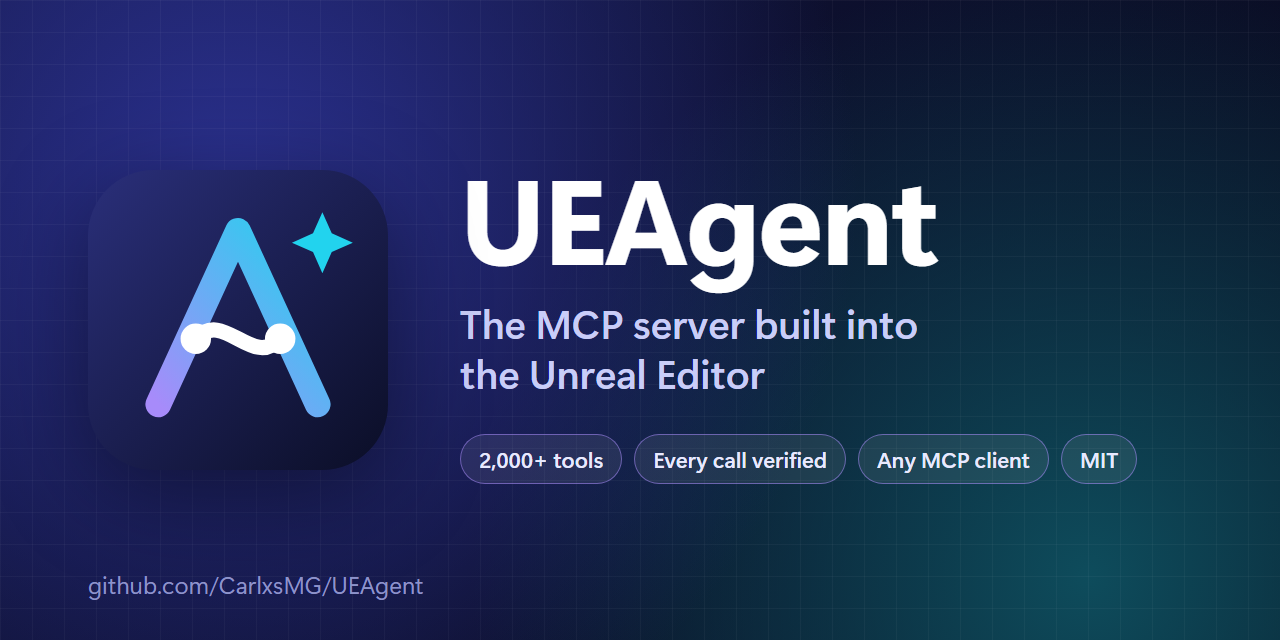
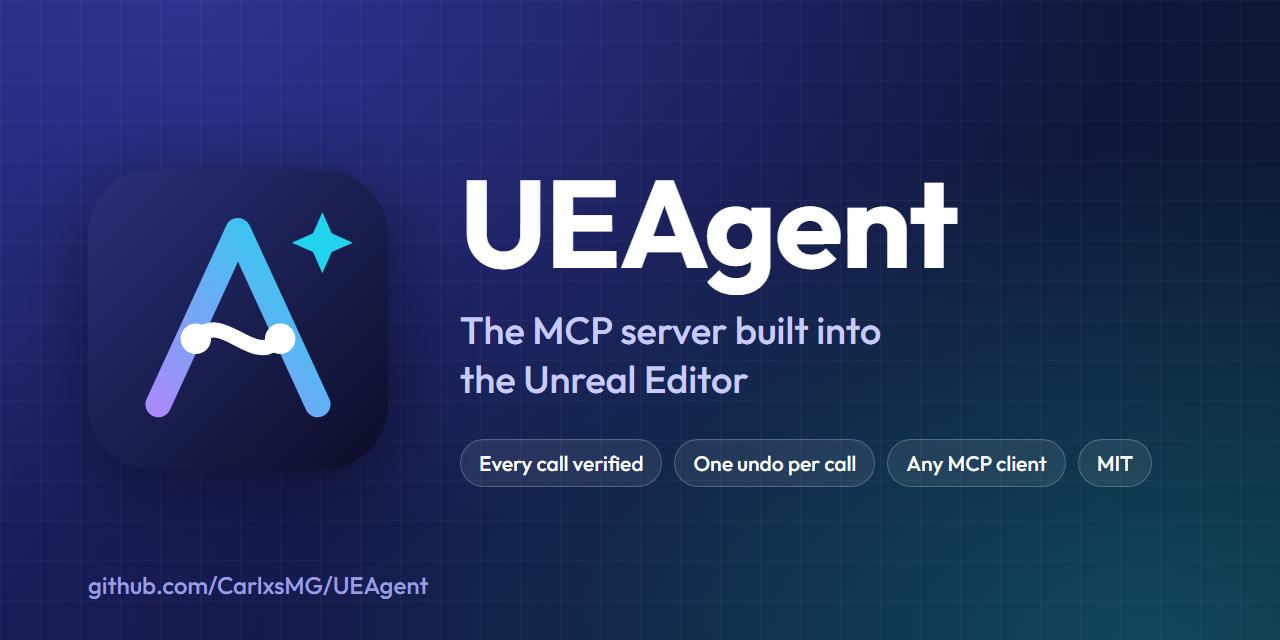
The social preview image gives no tool count, and its source is in the repository
It said 2,000+ tools, a count from before 2.0, in every link preview of GitHub and
the documentation site. The count changes with each release and an image is not
regenerated with the code, so the image names what does not change. The HTML it
is rendered from sits next to it.

diff --git a/.github/social-preview.html b/.github/social-preview.html
@@ -1,0 +1,60 @@
+<!doctype html>
+<!-- Source of social-preview.png, the image GitHub and the documentation site show in link previews.
+     Render it at 1280x640 with a headless Chromium, for example:
+     chrome --headless --hide-scrollbars --force-device-scale-factor=1 --window-size=1280,640
+            --virtual-time-budget=8000 --screenshot=social-preview.png social-preview.html -->
+<html>
+<head>
+<meta charset="utf-8">
+<link href="https://fonts.googleapis.com/css2?family=Outfit:wght@500;700&display=block" rel="stylesheet">
+<style>
+  html, body { margin: 0; width: 1280px; height: 640px; overflow: hidden; }
+  body {
+    position: relative;
+    font-family: "Outfit", "Segoe UI", sans-serif;
+    color: #fff;
+    background:
+      linear-gradient(rgba(255, 255, 255, 0.035) 1px, transparent 1px) 0 0 / 40px 40px,
+      linear-gradient(90deg, rgba(255, 255, 255, 0.035) 1px, transparent 1px) 0 0 / 40px 40px,
+      radial-gradient(ellipse at 90% 100%, rgba(20, 110, 125, 0.55), transparent 55%),
+      radial-gradient(ellipse at 15% 0%, rgba(52, 58, 160, 0.75), transparent 60%),
+      linear-gradient(120deg, #1d2266 0%, #121640 55%, #0a1a2c 100%);
+  }
+  .logo { position: absolute; left: 88px; top: 170px; width: 300px; height: 300px;
+          filter: drop-shadow(0 18px 40px rgba(0, 0, 0, 0.45)); }
+  .text { position: absolute; left: 460px; top: 160px; }
+  h1 { margin: 0; font-size: 124px; font-weight: 700; letter-spacing: -2px; line-height: 1; }
+  p { margin: 22px 0 34px; font-size: 38px; font-weight: 500; line-height: 1.3; color: #c9cbff; }
+  .chips { display: flex; gap: 12px; }
+  .chips span { font-size: 21px; font-weight: 500; padding: 10px 18px; border-radius: 999px;
+                background: rgba(255, 255, 255, 0.08); border: 1px solid rgba(255, 255, 255, 0.22); }
+  .url { position: absolute; left: 88px; bottom: 40px; font-size: 24px; font-weight: 500; color: #9a9ee0; }
+</style>
+</head>
+<body>
+  <svg class="logo" viewBox="0 0 128 128" xmlns="http://www.w3.org/2000/svg">
+    <defs>
+      <linearGradient id="bg" x1="0" y1="0" x2="1" y2="1">
+        <stop offset="0" stop-color="#2A2F7A"/>
+        <stop offset="1" stop-color="#0B0E26"/>
+      </linearGradient>
+      <linearGradient id="wire" x1="0" y1="1" x2="1" y2="0">
+        <stop offset="0" stop-color="#A78BFA"/>
+        <stop offset="1" stop-color="#22D3EE"/>
+      </linearGradient>
+    </defs>
+    <rect width="128" height="128" rx="28" fill="url(#bg)"/>
+    <path d="M30 100 L64 26 L98 100" fill="none" stroke="url(#wire)" stroke-width="11" stroke-linecap="round" stroke-linejoin="round"/>
+    <path d="M46 72 C58 59 70 85 82 72" fill="none" stroke="#FFFFFF" stroke-width="6.5" stroke-linecap="round"/>
+    <circle cx="46" cy="72" r="6.5" fill="#FFFFFF"/>
+    <circle cx="82" cy="72" r="6.5" fill="#FFFFFF"/>
+    <path d="M100 18 l4 9 9 4 -9 4 -4 9 -4 -9 -9 -4 9 -4 z" fill="#22D3EE"/>
+  </svg>
+  <div class="text">
+    <h1>UEAgent</h1>
+    <p>The MCP server built into<br>the Unreal Editor</p>
+    <div class="chips"><span>Every call verified</span><span>One undo per call</span><span>Any MCP client</span><span>MIT</span></div>
+  </div>
+  <div class="url">github.com/CarlxsMG/UEAgent</div>
+</body>
+</html>

diff --git a/CHANGELOG.md b/CHANGELOG.md
@@ -2,6 +2,13 @@
 
 Notable changes to UEAgent, newest first. Versions follow [Semantic Versioning](https://semver.org).
 
+## Unreleased
+
+### Fixed
+
+- The image link previews show (GitHub, the documentation site) said 2,000+ tools, a count from before 2.0. It
+  no longer gives a count, which changes with each release, and its source is in `.github/social-preview.html`.
+
 ## 2.3.0 - 2026-10-21
 
 One tool per intent, one verb per operation, and every part you can add you can also read and remove. 167 tools that
